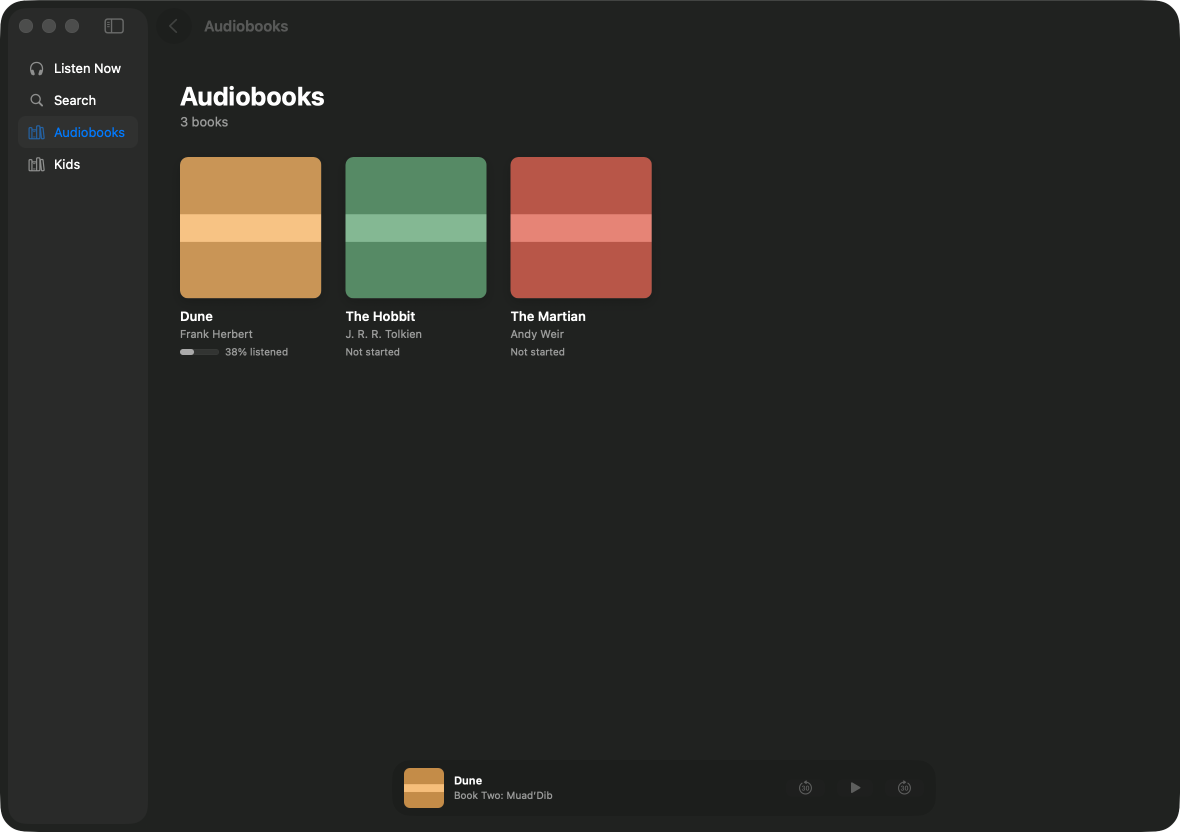
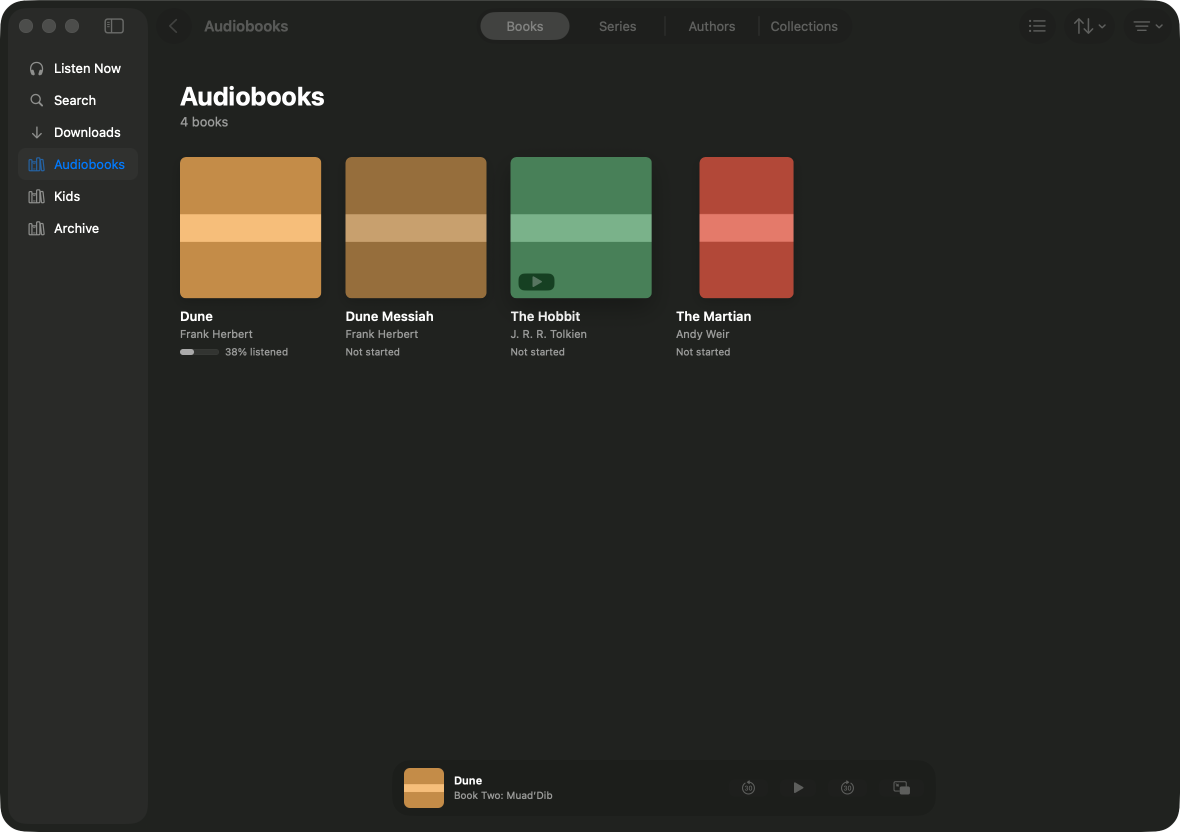
Polish covers, context menus, shortcuts and menu bar playback
Covers keep their art's own shape on the shelf's floor, with a placeholder
until it loads; under the pointer they lift and show a glass Play button,
and they scale when pressed. A right-click opens a book's menu: Play,
Download or Remove Download, Mark as Finished or Not Finished
(PATCH /api/me/progress/:id), and Show in its series. Playback is in the
View and Dock menus with Cmd-Left/Right and Alt-Cmd-Left/Right; Space plays
and pauses off the Search page; Cmd-F finds; Cmd-1... pick sidebar rows.
Loading and empty states cover every page.

polish.test.contract covers hover, the context menu, shortcuts and
placeholders on web and macOS; screenshots are retaken.

diff --git a/app/app.ts b/app/app.ts
@@ -194,12 +194,15 @@ function book(store: Store, i: Item, progress: Map<string, Progress>): Book {
   return {
     id: i.id,
     title: str(m.title) || 'Untitled',
-    author: str(m.authorName),
+    author: str(m.authorName) || names(m.authors),
     cover: coverUrl(store, i.id),
     duration: num(i.media.duration),
     progress: p ? (p.isFinished ? 1 : num(p.progress)) : 0,
+    // A minified item names its series as `seriesName` ("Dune Chronicles #1"), an expanded one as `series`.
+    series: str(m.seriesName).replace(/ #[^#]*$/, '') || (Array.isArray(m.series) ? str(m.series[0]?.name) : ''),
   };
 }
+const names = (v: unknown) => (Array.isArray(v) ? v.map((x) => (typeof x === 'string' ? x : str(x?.name))).filter(Boolean).join(', ') : '');
 
 const chapters = (raw: unknown): Chapter[] =>
   Array.isArray(raw) ? raw.map((c, i) => ({ id: i, title: str(c.title) || `Chapter ${i + 1}`, start: num(c.start), end: num(c.end) })) : [];
@@ -311,7 +314,7 @@ const sources: Sources = {
     if (!server || !libraryId) return { total: 0, books: [] };
     if (filter === 'downloaded') {
       const kept = Object.values(await offline.index(storage)).filter((e) => e.libraryId === libraryId && e.state === 'done');
-      const books = kept.map((e) => ({ id: e.id, title: e.title, author: e.author, cover: e.cover, duration: e.duration, progress: e.duration ? Math.min(1, e.position / e.duration) : 0 }));
+      const books = kept.map((e) => ({ id: e.id, title: e.title, author: e.author, cover: e.cover, duration: e.duration, progress: e.duration ? Math.min(1, e.position / e.duration) : 0, series: '' }));
       return { total: books.length, books: sortLocally(books, sort) };
     }
     const [key, desc] = SORTS[sort] ?? SORTS.title;
@@ -344,6 +347,22 @@ const sources: Sources = {
           authors: sh.type === 'authors' ? (sh.entities as AuthorBody[]).map((a) => authorCard(store, a)) : [],
         })),
     };
+  },
+
+  // A book's context menu. Mark as Finished: PATCH /api/me/progress/:id with `isFinished`
+  // (MeController.createUpdateMediaProgress). Show in Series: the expanded item's first series.
+  markFinished: async ([id, finished], store): Promise<Reply> => {
+    try {
+      await api(store, `/api/me/progress/${encodeURIComponent(id)}`, { method: 'PATCH', body: JSON.stringify(finished ? { isFinished: true } : { isFinished: false, currentTime: 0, progress: 0 }) });
+      return ok;
+    } catch (e) {
+      return refused((e as Error).message);
+    }
+  },
+  findSeries: async ([id], store) => {
+    const i = (await api(store, `/api/items/${encodeURIComponent(id)}?expanded=1`)) as Item;
+    const series = (i.media.metadata as { series?: { id?: string; name?: string }[] }).series;
+    return { id: str(series?.[0]?.id), name: str(series?.[0]?.name) };
   },
 
   // GET /api/libraries/:id/authors: `{ authors: [Author + numBooks] }` without paging.

diff --git a/app/mock/fixtures.ts b/app/mock/fixtures.ts
@@ -17,6 +17,8 @@ type Book = {
   id: string; libraryId: string; title: string; author: string; narrator: string; description: string;
   addedAt: number; color: [number, number, number];
   authorId: string; series?: { id: string; name: string; sequence: string };
+  // A cover's pixel size: most are square, as audiobook covers are; The Martian's is a print cover.
+  coverSize?: [number, number];
   tracks: { title: string; duration: number }[];
   chapters: { id: number; start: number; end: number; title: string }[];
 };
@@ -43,7 +45,7 @@ export const BOOKS: Book[] = [
   {
     id: 'li_martian', libraryId: 'lib_books', title: 'The Martian', author: 'Andy Weir', narrator: 'R. C. Bray',
     description: 'Stranded on Mars, an astronaut has to science his way home.', addedAt: 1_692_000_000_000,
-    authorId: 'au_weir',
+    authorId: 'au_weir', coverSize: [200, 300],
     color: [178, 72, 56],
     tracks: [{ title: 'The Martian', duration: 120 }],
     chapters: threeChapters(['Sol 6', 'Sol 7', 'Sol 10']),
@@ -109,15 +111,15 @@ function chunk(type: string, data: Uint8Array) {
   return out;
 }
 const covers = new Map<string, Uint8Array>();
-export function coverPng(b: { id: string; color: [number, number, number] }): Uint8Array {
+export function coverPng(b: { id: string; color: [number, number, number]; coverSize?: [number, number] }): Uint8Array {
   const hit = covers.get(b.id);
   if (hit) return hit;
-  const w = 200, h = 200, raw = new Uint8Array(h * (1 + w * 3));
+  const [w, h] = b.coverSize ?? [200, 200], raw = new Uint8Array(h * (1 + w * 3));
   for (let y = 0; y < h; y++) {
     raw[y * (1 + w * 3)] = 0;
     for (let x = 0; x < w; x++) {
       // A lighter band across the middle, so a cover reads as a cover.
-      const band = y > 80 && y < 120 ? 50 : 0;
+      const band = y > h * 0.4 && y < h * 0.6 ? 50 : 0;
       for (let c = 0; c < 3; c++) raw[y * (1 + w * 3) + 1 + x * 3 + c] = Math.min(255, b.color[c] + band);
     }
   }

diff --git a/app/mock/server.ts b/app/mock/server.ts
@@ -133,7 +133,7 @@ function progressOf(id: string) {
   const p = progress.get(id);
   const b = BOOKS.find((x) => x.id === id)!;
   const duration = b.tracks.reduce((s, t) => s + t.duration, 0);
-  return p ? { id: `mp_${id}`, libraryItemId: id, duration, progress: p.progress, currentTime: p.currentTime, isFinished: false, lastUpdate: p.lastUpdate } : null;
+  return p ? { id: `mp_${id}`, libraryItemId: id, duration, progress: p.progress, currentTime: p.currentTime, isFinished: p.progress >= 1, lastUpdate: p.lastUpdate } : null;
 }
 
 Bun.serve({
@@ -243,8 +243,12 @@ async function route(req: Request): Promise<Response> {
     }
     let pm = path.match(/^\/api\/me\/progress\/([^/]+)$/);
     if (pm && method === 'PATCH') {
-      const it = (await req.json().catch(() => ({}))) as { currentTime?: number; progress?: number };
-      progress.set(pm[1], { currentTime: it.currentTime ?? 0, progress: it.progress ?? 0, lastUpdate: Date.now() });
+      // createUpdateMediaProgress: fields left out keep their values; isFinished finishes the book.
+      const it = (await req.json().catch(() => ({}))) as { currentTime?: number; progress?: number; isFinished?: boolean };
+      const was = progress.get(pm[1]);
+      const finished = it.isFinished ?? (was ? was.progress >= 1 : false);
+      const currentTime = it.currentTime ?? was?.currentTime ?? 0;
+      progress.set(pm[1], { currentTime: finished && currentTime <= 0 ? 1 : currentTime, progress: finished ? 1 : it.progress ?? (was && was.progress < 1 ? was.progress : 0), lastUpdate: Date.now() });
       return new Response('OK');
     }
     if (pm) {

diff --git a/README.md b/README.md
@@ -13,6 +13,7 @@ it says otherwise.
 | `app/app.ts` | Every Audiobookshelf API call, and the sign-in kept in the Keychain |
 | `app/app.test.contract` | The tests, run against the mock server on every host |
 | `app/library.contract` | Browsing pieces: cover grid, list, shelves, series, author and collection cards |
+| `app/polish.test.contract` | Hover and Play on covers, context menus, keyboard shortcuts, placeholders |
 | `app/layouts.test.contract` | Shelves, sort, filter, grid/list, paging, series, authors, collections |
 | `app/offline.ts` | Offline listening: downloads into app storage, and progress queued for the server |
 | `app/downloads.test.contract` | Download, cancel, remove, play with no network, sync when back |
@@ -107,6 +108,9 @@ The tests cover:
   the library chosen in the sidebar, and a result opens its detail.
 - **Mini player:** it shows while you browse other sections, plays, pauses and skips, and opens the
   player.
+- **Polish** (both hosts): hovering a cover shows its Play button, which plays it. Placeholders go
+  once art loads. The context menu marks Finished and back, downloads, removes, shows the series
+  and plays. ⌘1–⌘5 switch sections, ⌘F finds, and Space, ⌘← ⌘→, ⌥⌘← ⌥⌘→ drive playback.
 - **Layouts** (both hosts): Listen Now's shelves of books, series and authors. A library sorted by
   title, author, recently added and progress; filtered by in progress, finished, not started and
   downloaded, with an empty filter's way back. Grid and list views, and the 60-book Archive library
@@ -190,6 +194,15 @@ colours and fonts.
   player's state as props and handles its buttons' messages, so it is always in step with the
   main player. AppKit autosaves its position.
 
+- **Menus and keys:** a book's right-click menu (Play, Download / Remove Download, Mark as Finished
+  / Not Finished, Show in its series) is an `NSMenu`. Playback is in the menu bar's View menu and the
+  Dock menu: Play/Pause, Skip Back/Forward 30 Seconds (⌘← ⌘→), Previous/Next Chapter (⌥⌘← ⌥⌘→).
+  Space plays and pauses, except on the Search page. Find in Library (⌘F) is in Edit, and the
+  sidebar's sections are ⌘1… in Go, as AppKit files them.
+- **Covers:** each cover keeps its art's own shape, square or portrait, standing on the shelf's
+  floor as Books draws it, with a placeholder until it loads. Pressing scales it (`:active`
+  `-exact-press-scale`, the host's own press).
+
 **Approximated (Exact has no such primitive yet):**
 
 - **Search field in the sidebar.** Exact's sidebar holds only rows, so search is a Search row whose
@@ -200,6 +213,13 @@ colours and fonts.
 - **Large titles.** The Mac toolbar has none ("there is no large title" in Exact's bar), so each
   page draws its title in `-exact-large-title` at the top of its content, as Books does under its
   toolbar. The toolbar shows the same title, small.
+- **Hover on covers.** Apple hosts don't draw `:hover` state parts yet (Exact's LLP 1121 stage 8 B),
+  so a cover tracks the pointer with its `hover` event. That lifts its shadow and shows a glass Play
+  button, at the cost of a state change per hover.
+- **No "Controls" menu.** `-exact-menu` files a command only into the standard menus, so playback
+  lives in View and the Dock menu, where Music has a Controls menu of its own.
+- **Space as a shortcut.** A bare Space shortcut would take the key from a text field, so it is
+  present only off the Search page. The sign-in form hides all shortcuts.
 - **Shelves scroll sideways in a `scroll`**, not an `NSCollectionView` with paging arrows.
 - **Lists are rows in a scroll, not a virtualized `list`** (an `NSTableView` on the Mac). A
   virtualized list holds one `for` and nothing else, and the page's large title and paging marker
@@ -299,6 +319,8 @@ colours and fonts.
 | Mini player while browsing | Done (Liquid Glass) |
 | Listen Now shelves from ABS's personalized shelves | Done |
 | Series, Authors and Collections pages, with detail pages | Done |
+| Hover and pressed covers, context menus, keyboard shortcuts, menu bar playback | Done (hover drawn by the app; playback in View and the Dock menu) |
+| Cover art at its own aspect ratio, placeholders, empty and loading states | Done |
 | Grid/list toggle, sort, filter, paging | Done (24 at a time, loaded as you scroll) |
 | Mini Player window | Done on macOS (a native module's `NSPanel`) |
 | Offline downloads: progress, cancel, delete, Downloads row, offline playback, queued sync | Done (progress per track, while the app runs) |
